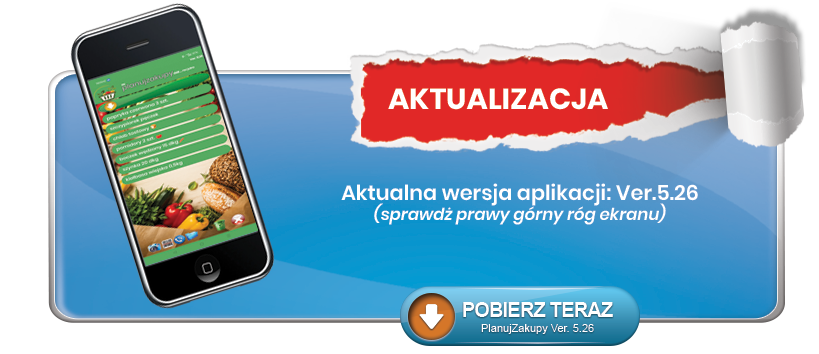
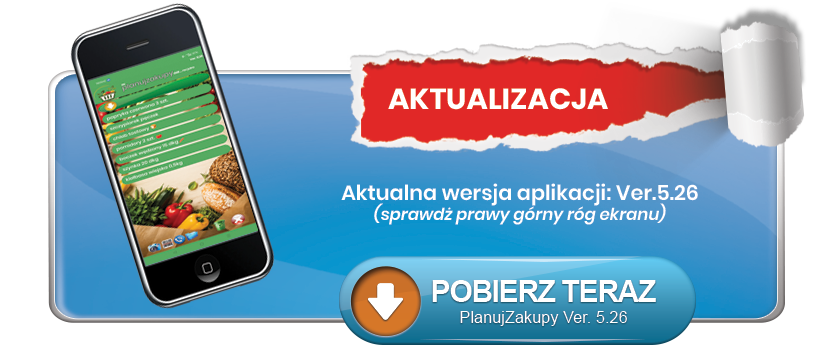
Add files via upload

Changed region(s): [[0.3968, 0.7147, 0.8547, 0.9944]]

diff --git a/udostepnij.html b/udostepnij.html
@@ -14,6 +14,5 @@
 	
 	<img src="udostepnij1.png" width="100%" height="auto" border="0"><BR>
 	<a href="https://marcinmartino77-collab.github.io/planujzakupy/PlanujZakupy.apk">
-	<img src="udostepnij2.png" width="100%" height="auto" border="0"></a><BR>
+	<img src="udostepnij2.png" width="100%" height="auto" border="0" target="window"></a><BR>
 </body>
-</html>